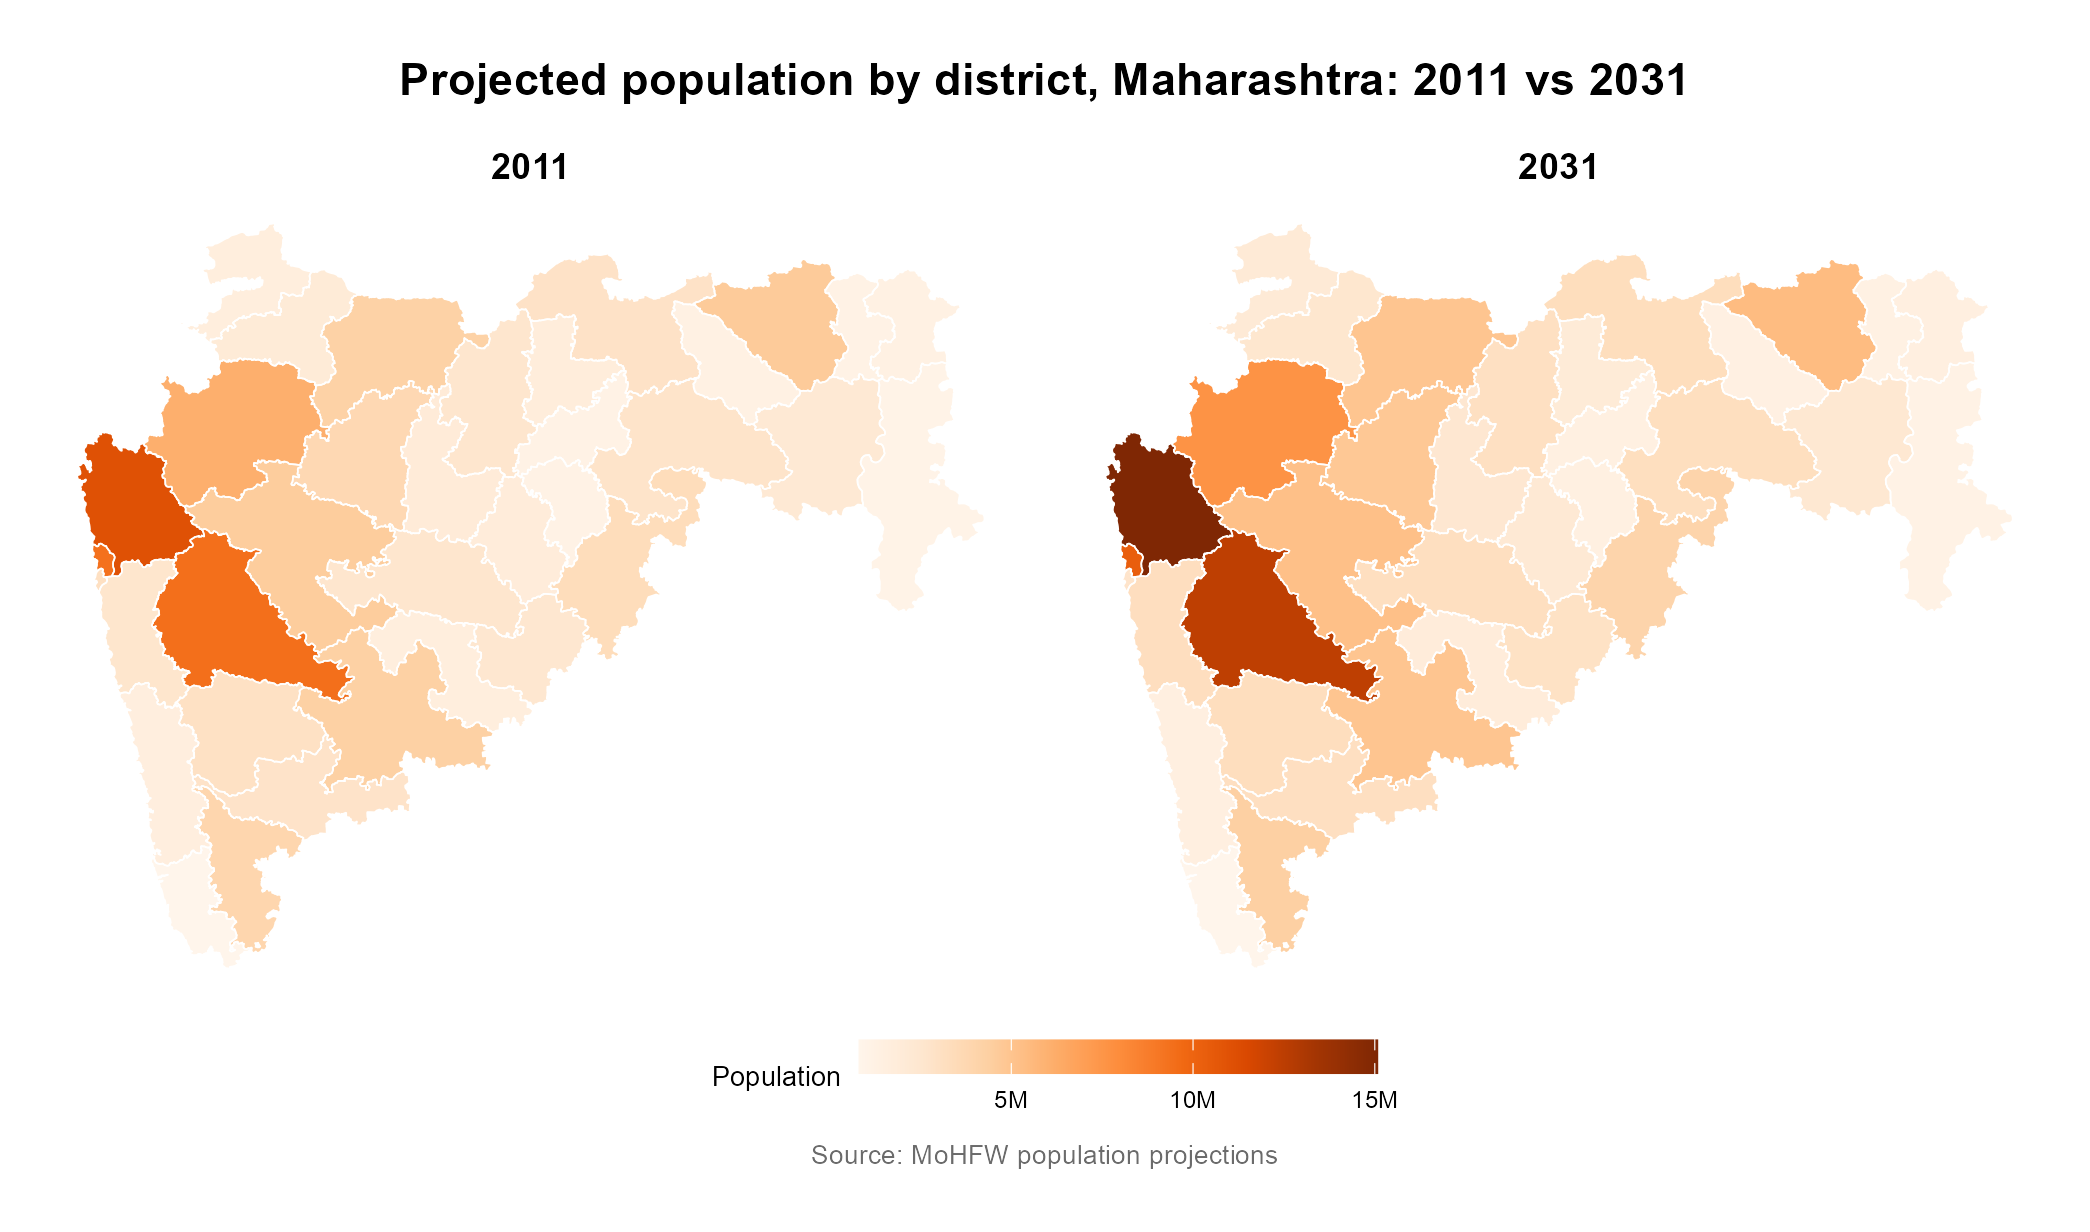
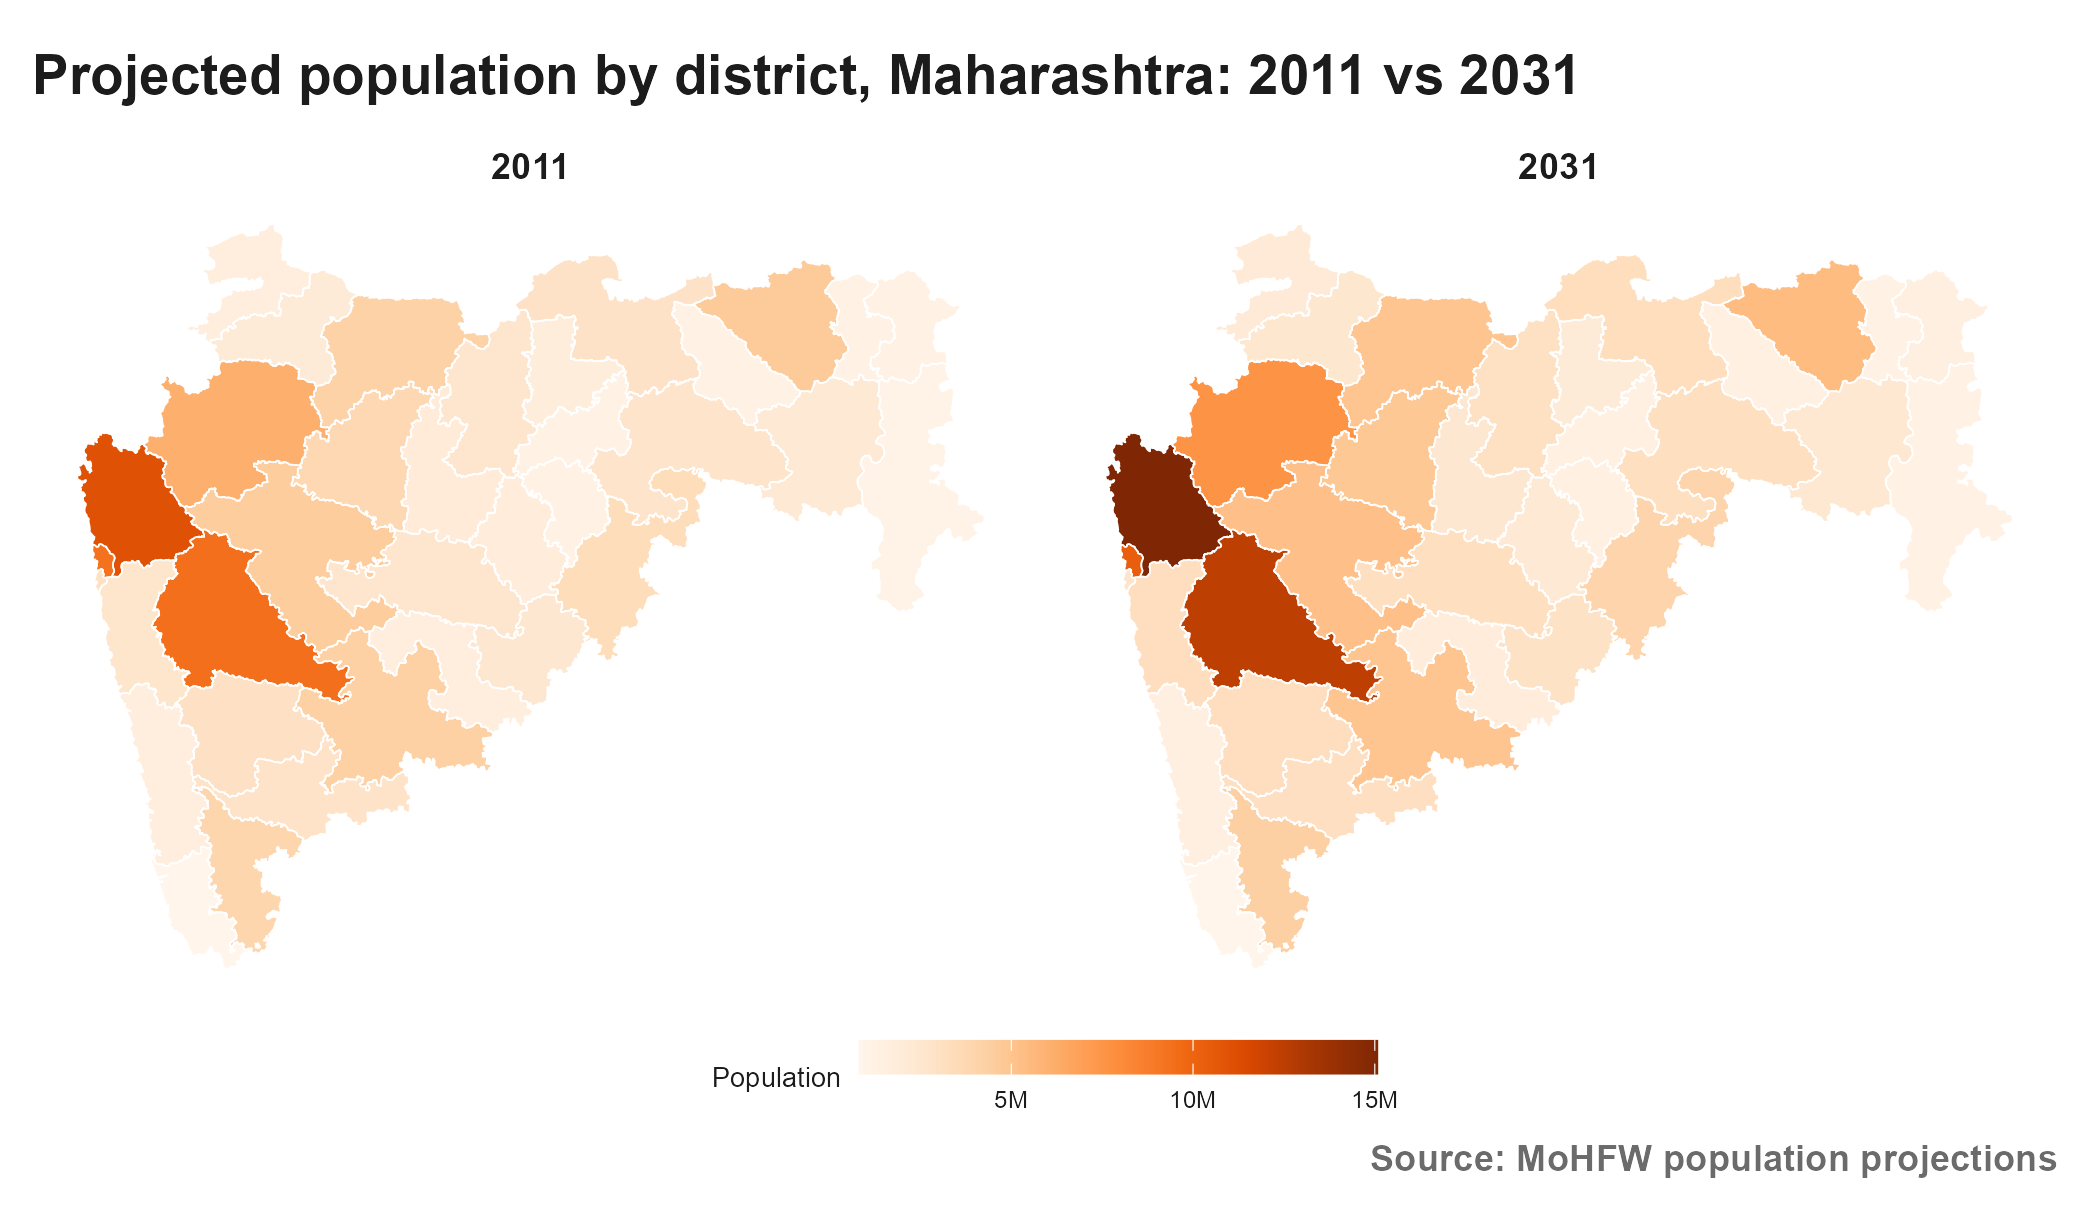
Update README

diff --git a/README.md b/README.md
@@ -51,7 +51,10 @@ plot_map(ling, "effective_languages",
 )
 ```
 
-![Linguistic diversity by district, 2011](man/figures/README-map.png)
+<picture>
+  <source media="(prefers-color-scheme: dark)" srcset="man/figures/README-map-dark.png">
+  <img src="man/figures/README-map.png" alt="Linguistic diversity by district, 2011">
+</picture>
 
 Projected district-level population, Maharashtra 2011 vs 2031:
 
@@ -70,7 +73,10 @@ compare_maps(
 )
 ```
 
-![Projected population by district, Maharashtra: 2011 vs 2031](man/figures/README-projection.png)
+<picture>
+  <source media="(prefers-color-scheme: dark)" srcset="man/figures/README-projection-dark.png">
+  <img src="man/figures/README-projection.png" alt="Projected population by district, Maharashtra: 2011 vs 2031">
+</picture>
 
 Languages spoken in a district, ranked by speakers:
 
